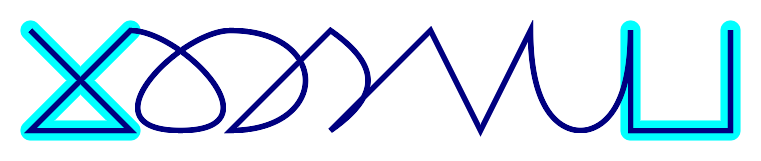
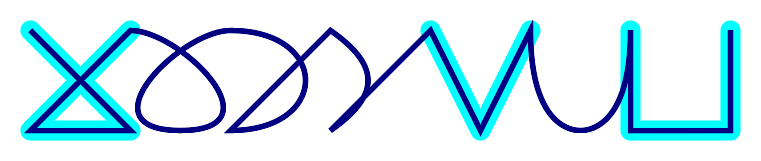
ok

Changed region(s): [[0.544, 0.1242, 0.7254, 0.8696]]

diff --git a/draw.rb b/draw.rb
@@ -118,7 +118,7 @@ if __FILE__ == $0
   
   c.use '-strokewidth 20 -stroke aqua'
   c.next_line 0
-  c.draw "x     q", latin: false
+  c.draw "x   t q", latin: false
 
   c.use '-strokewidth 5 -stroke navy'
   c.next_line 0
@@ -128,7 +128,7 @@ if __FILE__ == $0
   c.use '+repage'
   c.use 'bordercolor white -border 20'
 
-  c.render? 'sequence.png'
+  c.render 'sequence.png'
 
 
   # naming is hard
